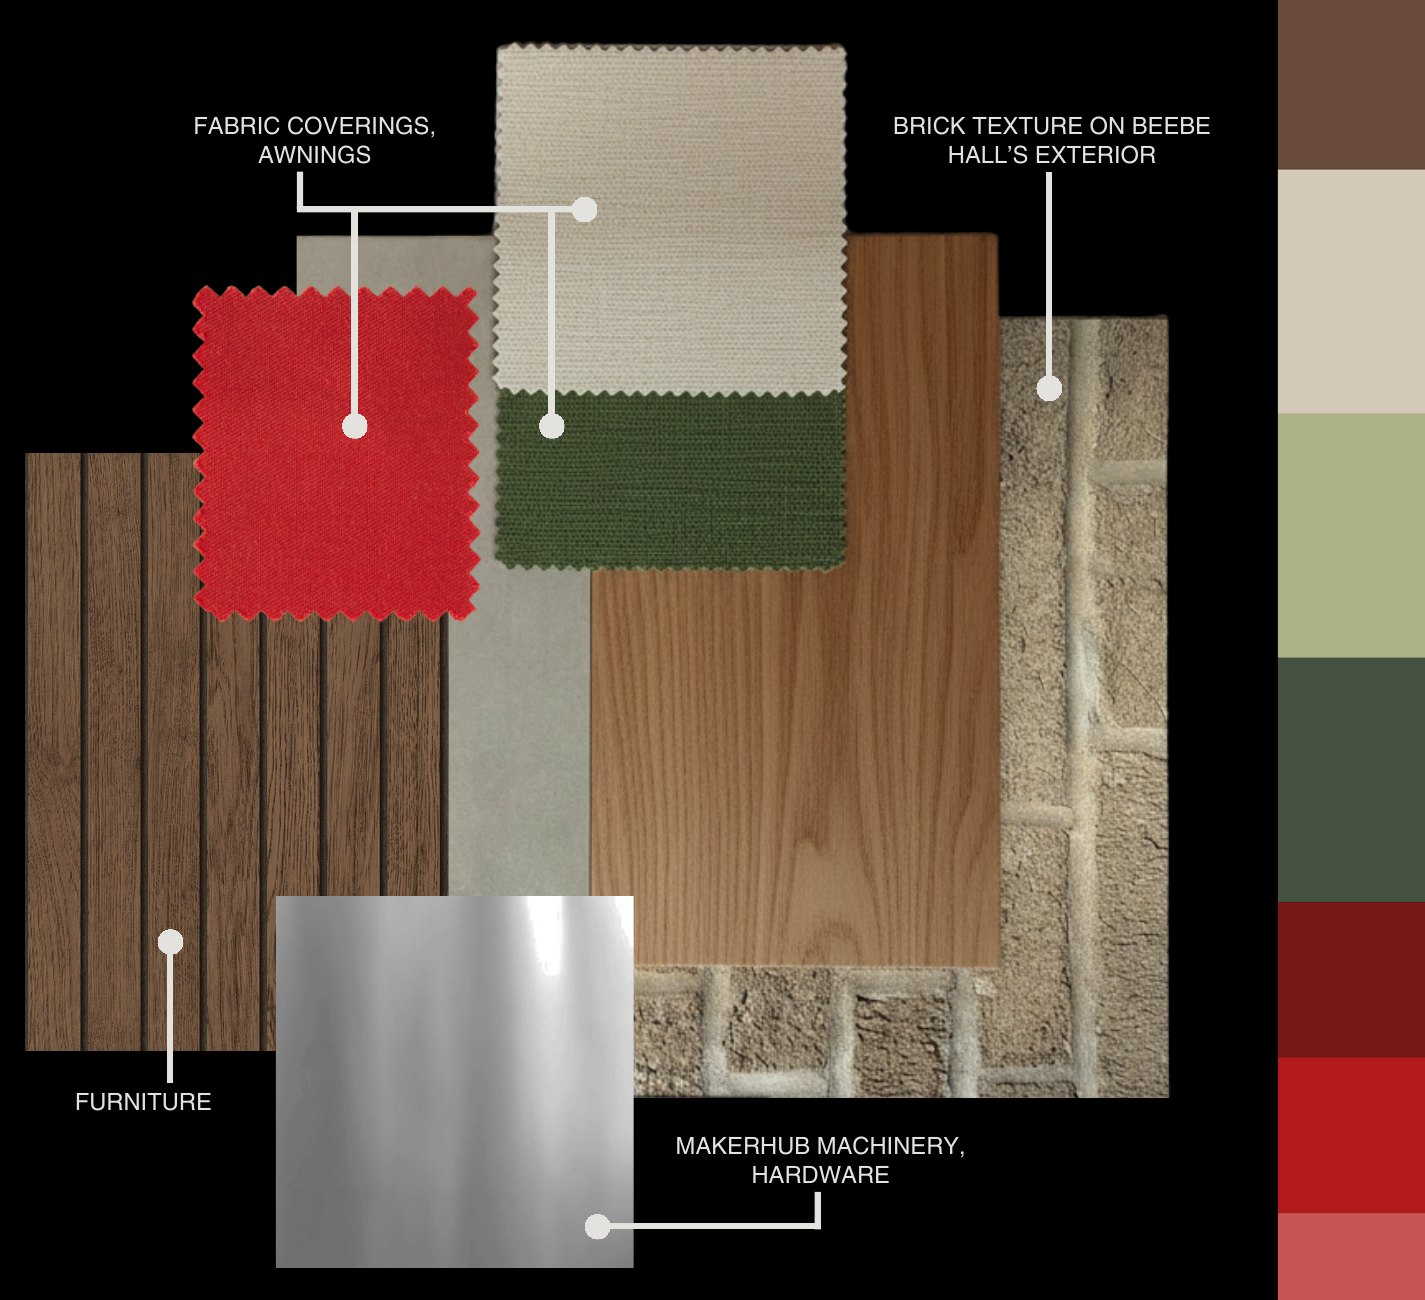
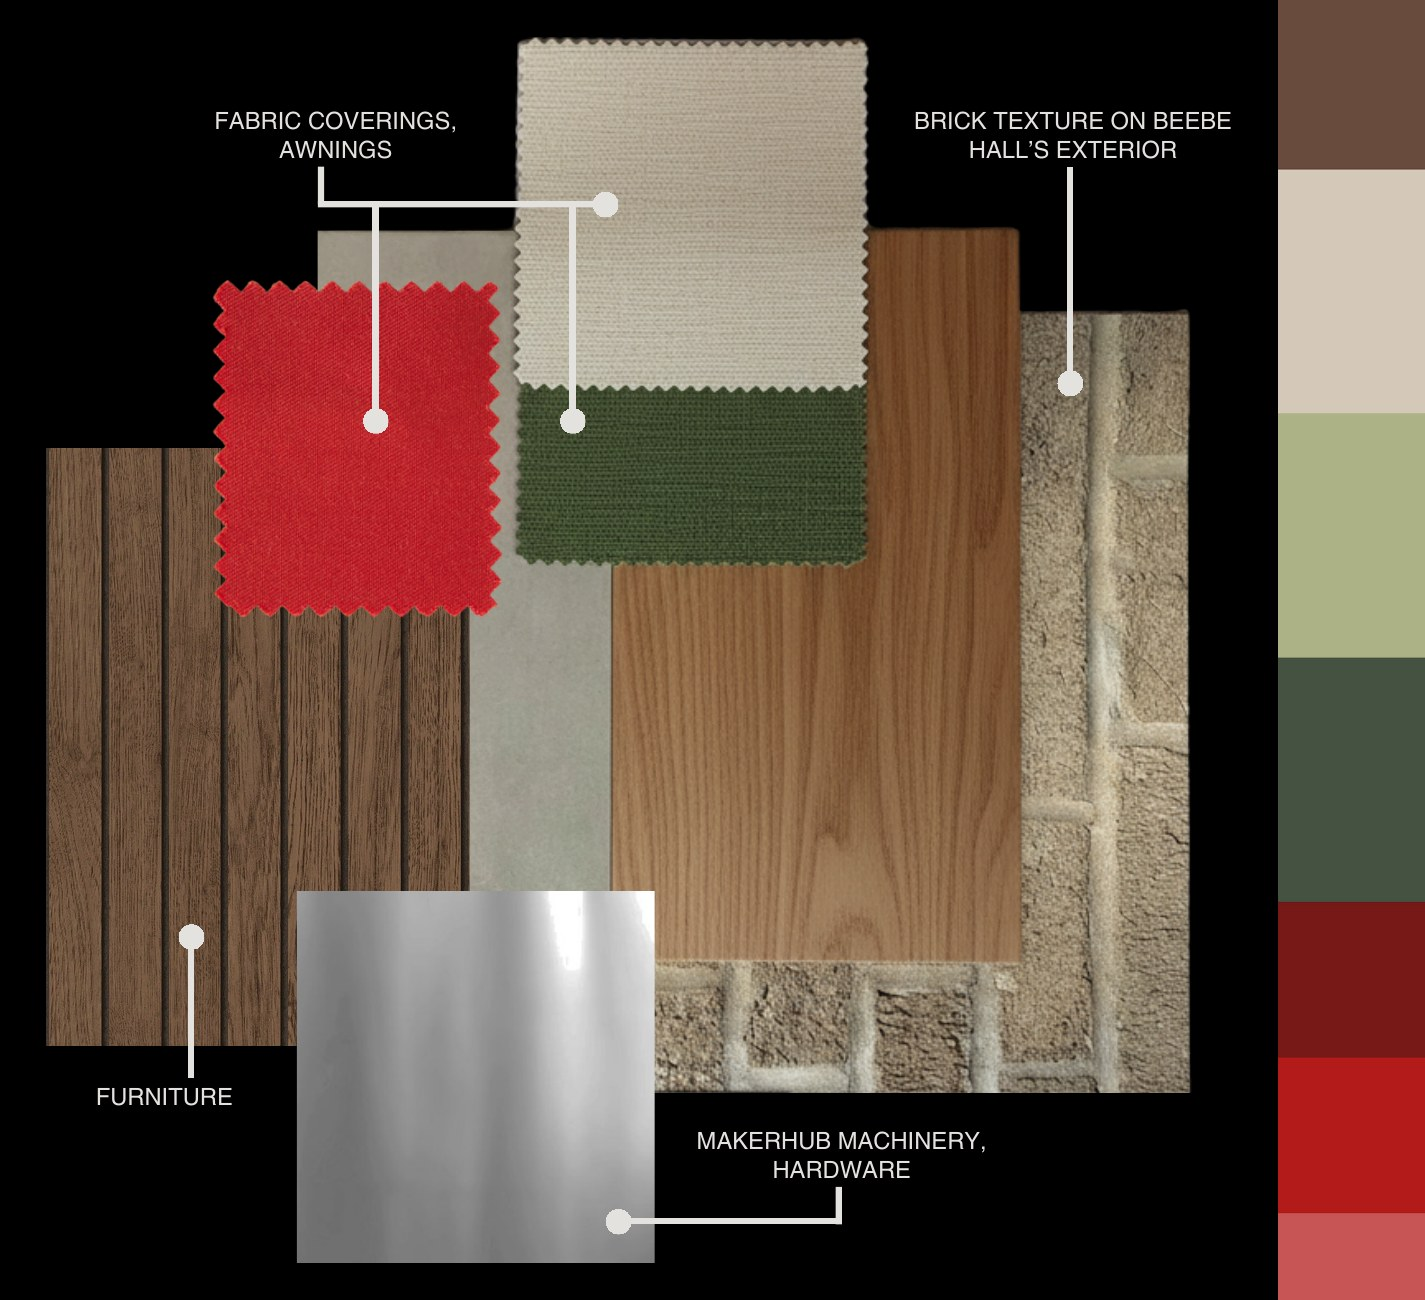
MakerHub: center materials collage in its frame
Claude-Session: https://claude.ai/code/session_01UHrP7f3T6PvekE7nxDfNFQ

Changed region(s): [[0.0, 0.0308, 0.8646, 0.9846], [0.5249, 0.5231, 0.5558, 0.5538], [0.4323, 0.3692, 0.4632, 0.4]]

diff --git a/index.html b/index.html
@@ -8,13 +8,13 @@
 <link rel="preconnect" href="https://fonts.googleapis.com">
 <link rel="preconnect" href="https://fonts.gstatic.com" crossorigin>
 <link rel="stylesheet" href="https://fonts.googleapis.com/css2?family=Archivo:wdth,wght@62..125,700..800&family=Bricolage+Grotesque:opsz,wdth,wght@12..96,75..100,400..800&family=Instrument+Sans:wght@400;500;600&family=Instrument+Serif:ital@1&family=Syne:wght@700..800&family=Archivo+Narrow:wght@500;600;700&family=Caveat:wght@500;600&display=swap">
-<link rel="stylesheet" href="css/style.css?v=202611160335">
+<link rel="stylesheet" href="css/style.css?v=202611160338">
 </head>
 <body>
 <div id="app"></div>
-<script>window.SITE_VERSION = "202611160335";</script>
-<script src="content/site.js?v=202611160335"></script>
-<script src="js/glyphs.js?v=202611160335"></script>
-<script src="js/app.js?v=202611160335"></script>
+<script>window.SITE_VERSION = "202611160338";</script>
+<script src="content/site.js?v=202611160338"></script>
+<script src="js/glyphs.js?v=202611160338"></script>
+<script src="js/app.js?v=202611160338"></script>
 </body>
 </html>

diff --git a/content/projects/makerhub.js b/content/projects/makerhub.js
@@ -35,7 +35,7 @@ addProject({
     { group: "Branding & Materials", type: "pair", items: [
       { type: "image", heading: "Materials",
         intro: "Inspired by Ithaca's natural landscape: sage green, cream, and brown, with Cornell carnelian as the accent.",
-        src: "assets/digital/makerhub/materials.jpg", ratio: "1425/1300" },
+        src: "assets/digital/makerhub/materials.jpg?v=202611160338", ratio: "1425/1300" },
       { type: "image", heading: "Wordmark",
         intro: "Focusing on minimalism and simplicity, inspired by digitalism and modeling software, in metallic and flat versions.",
         src: "assets/digital/makerhub/wordmark-logos.jpg", ratio: "1450/945" }
